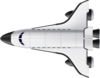
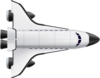
Added move and turn feature to space craft.

diff --git a/src/Game.cpp b/src/Game.cpp
@@ -22,9 +22,13 @@ void Game::play()
 {
     std::cout << "Game::play()" << std::endl;
 
+    sf::Time elapsed_time;
+    sf::Clock clock;
+
     while (window.isOpen())
     {
         sf::Event event;
+        sf::Time delta_time = clock.restart();
 
         while (window.pollEvent(event))
         {
@@ -34,10 +38,31 @@ void Game::play()
                     window.close();
                     break;
 
+                case sf::Event::KeyPressed:
+                    if (event.key.code == sf::Keyboard::Right)
+                    {
+                        space_craft.turn(true);
+                    }
+                    else if (event.key.code == sf::Keyboard::Left)
+                    {
+                        space_craft.turn(false);
+                    }
+                    else if (event.key.code == sf::Keyboard::Up)
+                    {
+                        space_craft.move();
+                    }
+                    else if (event.key.code == sf::Keyboard::Escape)
+                    {
+                        window.close();
+                    }
+                    break;
+
                 default:
                     break;
             }
         }
+
+        elapsed_time += delta_time;
 
         window.clear();
 

diff --git a/src/SpaceCraft.cpp b/src/SpaceCraft.cpp
@@ -7,7 +7,10 @@
 
 #include "../include/SpaceCraft.hpp"
 
-SpaceCraft::SpaceCraft()
+#include <iostream>
+#include <cmath>
+
+SpaceCraft::SpaceCraft(): speed(5.f)
 {
     if (!texture.loadFromFile("../images/spacecraft.png"))
     {
@@ -16,7 +19,7 @@ SpaceCraft::SpaceCraft()
 
     sprite.setTexture(texture);
     sprite.setOrigin(sf::Vector2f(50, 39));
-    sprite.setPosition(sf::Vector2f(1000, 550));
+    sprite.setPosition(sf::Vector2f(300, 550));
 }
 
 SpaceCraft::~SpaceCraft()
@@ -26,4 +29,28 @@ SpaceCraft::~SpaceCraft()
 void SpaceCraft::draw(sf::RenderWindow& window)
 {
     window.draw(sprite);
+}
+
+void SpaceCraft::move()
+{
+    float angle = sprite.getRotation();
+
+    float x = speed * std::cos(angle * M_PI / 180);
+    float y = speed * std::sin(angle * M_PI / 180);
+
+    sprite.move(sf::Vector2f(x, y));
+}
+
+void SpaceCraft::turn(const bool& turn_right)
+{
+    float angle = sprite.getRotation();
+
+    if (turn_right)
+    {
+        sprite.setRotation(angle + 5.f);
+    }
+    else
+    {
+        sprite.setRotation(angle - 5.f);
+    }
 }

diff --git a/include/SpaceCraft.hpp b/include/SpaceCraft.hpp
@@ -15,6 +15,11 @@ class SpaceCraft
 private:
 
     /**
+     * @brief Speed of the space craft.
+     */
+    float speed;
+
+    /**
      * @brief Texture of the space craft.
      */
     sf::Texture texture;
@@ -41,6 +46,17 @@ public:
      * @param window Main game window.
      */
     void draw(sf::RenderWindow& window);
+
+    /**
+     * @brief Moves the space craft according to current direction.
+     */
+    void move();
+
+    /**
+     * @brief Turns the space craft either left or right.
+     * @param turn_right Indicates that right key is pressed.
+     */
+    void turn(const bool& turn_right);
 };
 
 #endif /* SPACECRAFT_HPP_INCLUDED */
